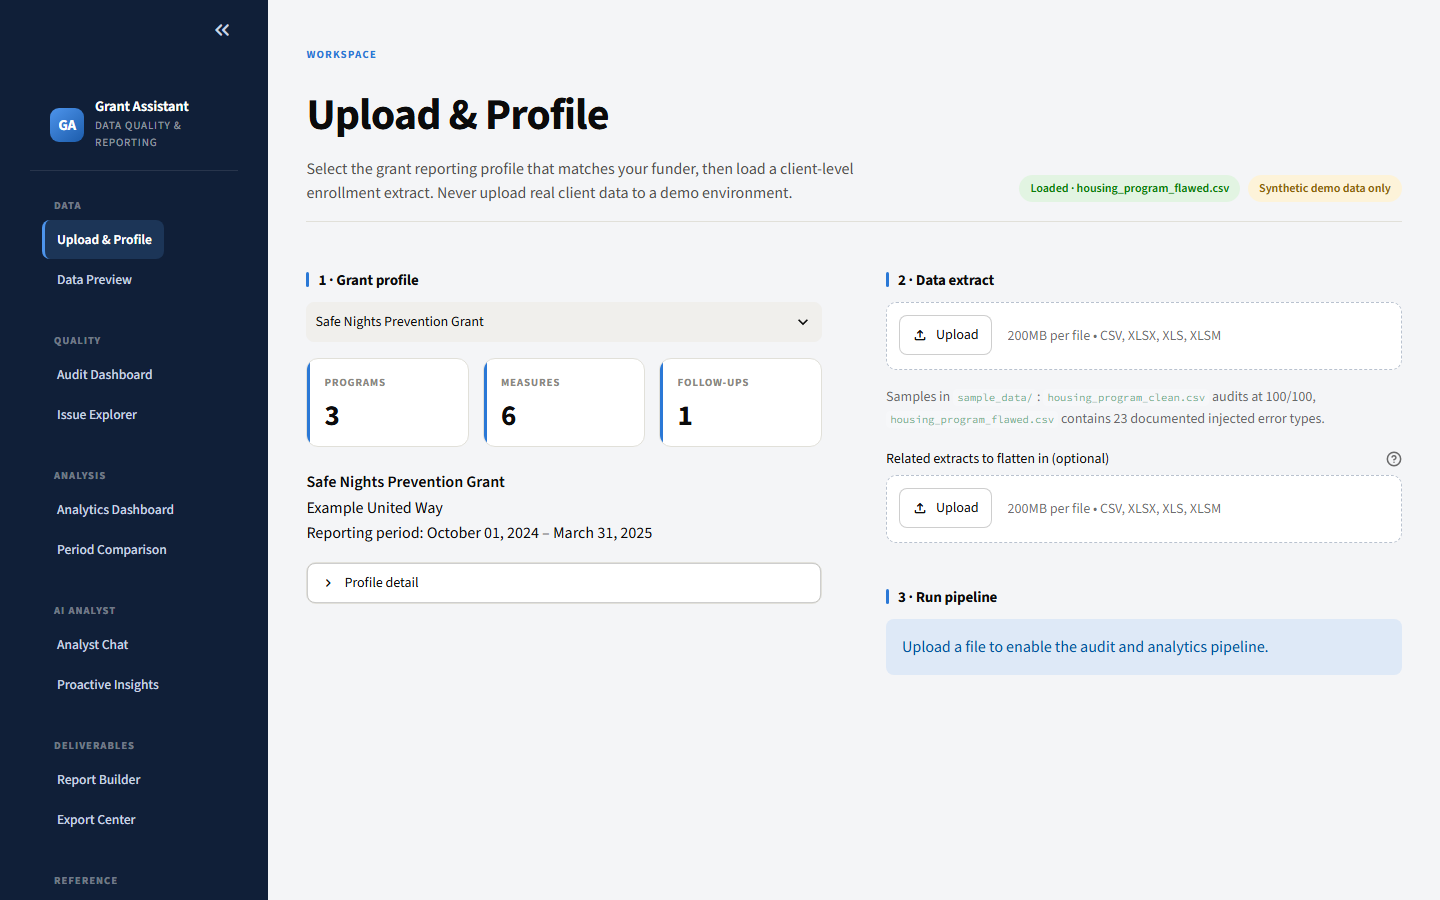
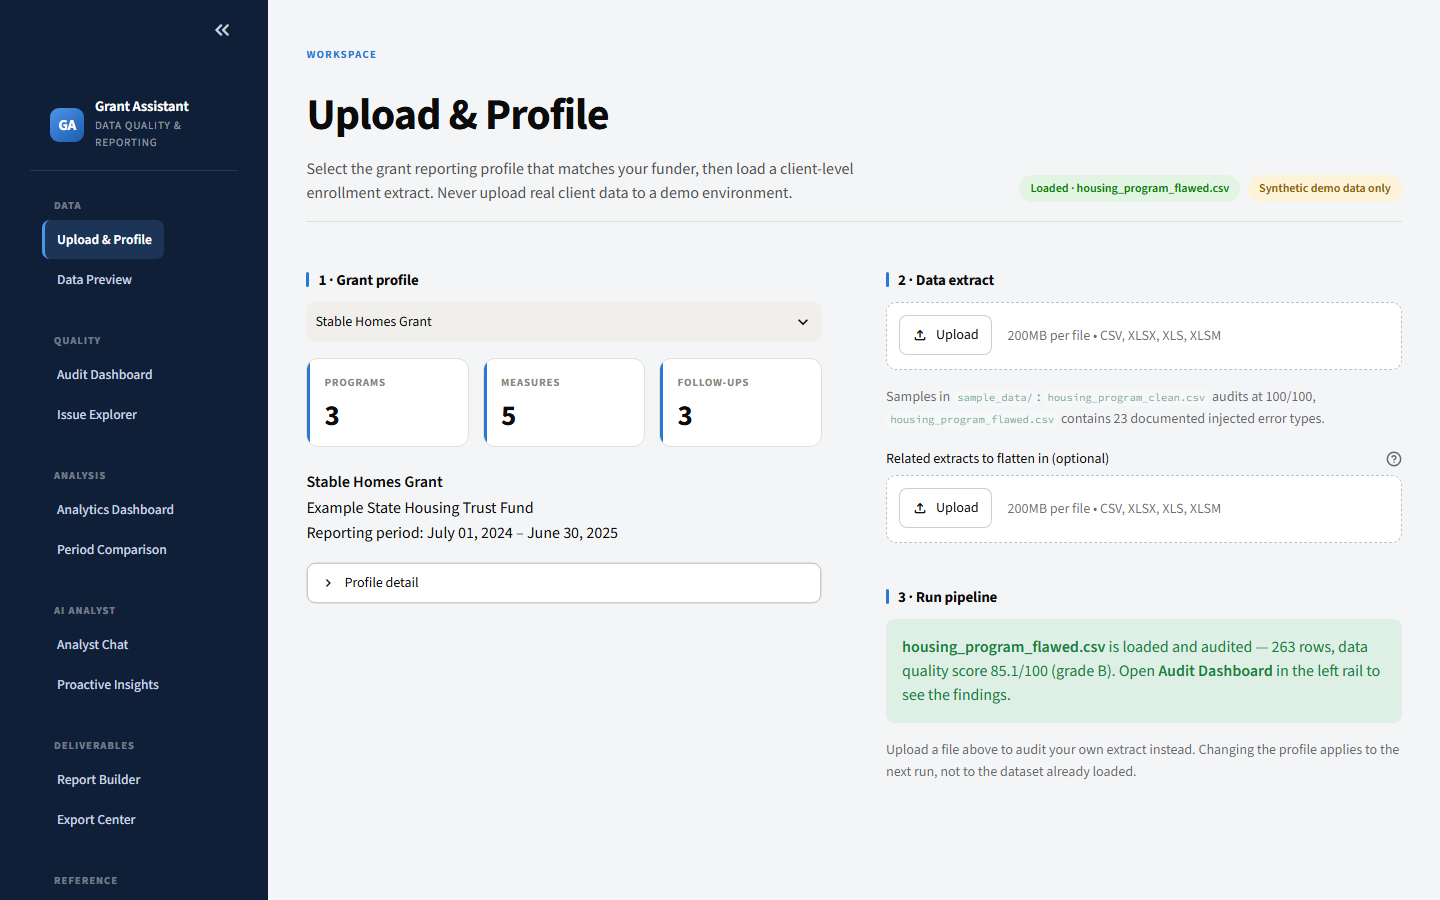
v1.11.2: the demo landing page no longer contradicts itself
Two defects on the first screen a demo visitor sees, both from the same cause --
the page read widget state instead of session state.

The profile picker defaulted to whichever grant sorts first alphabetically, so
arriving with ?profile=housing_stability showed the picker naming one grant and
the sidebar naming another, with nothing indicating which produced the numbers.
The autoloader now seeds the selector with the profile it loaded.

Step 3 keyed off the file-uploader widget alone, so a visitor whose dataset was
already preloaded and audited was told to upload one -- directly beneath a
"Loaded" pill and a computed data quality score. It now reports the loaded file,
its rows and score, and points at the Audit Dashboard.

All three states are tested: loaded-with-matching-profile, loaded-does-not-ask-
for-upload, and empty-still-prompts. Screenshots regenerated.

diff --git a/tests/test_ui_app.py b/tests/test_ui_app.py
@@ -305,3 +305,46 @@ def test_pii_warning_reaches_the_audit_dashboard(tmp_path, clean_df):
     # The page renders from session state, so seed it the way the app does.
     assert audit.pii_warnings, "expected the scan to flag the added column"
     assert any("Client Name" in w for w in audit.pii_warnings)
+
+
+# -- The demo landing page ----------------------------------------------------
+# This is the first screen a visitor to the hosted demo sees. Two things on it
+# used to contradict each other and the sidebar, which is worse than a bug in a
+# page nobody reaches.
+
+
+def test_demo_profile_selector_matches_the_loaded_profile(loaded_app):
+    """The picker must name the grant that was actually loaded.
+
+    It defaulted to the first profile alphabetically, so a visitor arriving with
+    ?profile=housing_stability saw the picker naming a different grant than the
+    sidebar, with no indication which one produced the numbers on screen.
+    """
+    _goto(loaded_app, "Upload & Profile")
+    assert not loaded_app.exception
+
+    loaded = loaded_app.session_state["pipeline"]["profile"]
+    assert loaded.profile_id == "housing_stability"
+    box = next((s for s in loaded_app.selectbox if s.label == "Grant profile"), None)
+    assert box is not None
+    # The selector's value is the profile id; format_func only changes the label.
+    assert box.value == loaded.profile_id
+
+
+def test_demo_landing_does_not_ask_for_an_upload_it_already_has(loaded_app):
+    """With data loaded, step 3 must report state, not demand work already done."""
+    _goto(loaded_app, "Upload & Profile")
+    assert not loaded_app.exception
+
+    text = _text_of(loaded_app)
+    assert "Upload a file to enable" not in text
+    assert "is loaded and audited" in text
+    assert "Audit Dashboard" in text
+
+
+def test_upload_prompt_still_appears_with_no_data():
+    """The prompt is right when there is genuinely nothing loaded."""
+    app = _app().run()
+    _goto(app, "Upload & Profile")
+    assert not app.exception
+    assert "Upload a file to enable" in _text_of(app)

diff --git a/src/grant_assistant/ui/data_pages.py b/src/grant_assistant/ui/data_pages.py
@@ -116,7 +116,22 @@ def page_upload() -> None:
         )
 
         theme.panel_title("3 · Run pipeline")
-        if uploaded is None:
+        if uploaded is None and _loaded():
+            # A demo visitor arrives with a dataset already audited. Telling them to
+            # upload one contradicts the "Loaded" pill above and sends them looking
+            # for work that is already done.
+            p = st.session_state["pipeline"]
+            audit = p["audit"]
+            st.success(
+                f"**{p['filename']}** is loaded and audited — {len(p['prepared'].df)} rows, "
+                f"data quality score {audit.overall_score:.1f}/100 (grade {audit.grade}). "
+                "Open **Audit Dashboard** in the left rail to see the findings."
+            )
+            st.caption(
+                "Upload a file above to audit your own extract instead. Changing the profile "
+                "applies to the next run, not to the dataset already loaded."
+            )
+        elif uploaded is None:
             st.info("Upload a file to enable the audit and analytics pipeline.")
         elif st.button("Run audit + analytics", type="primary", use_container_width=True):
             try:

diff --git a/src/grant_assistant/ui/app.py b/src/grant_assistant/ui/app.py
@@ -86,6 +86,11 @@ def _demo_autoload() -> None:
         "analytics": compute_analytics(prepared, profile),
         "filename": demo_path.name,
     }
+    # Point the Upload page's profile selector at what was actually loaded. Without
+    # this it falls back to the first profile alphabetically, so a demo visitor sees
+    # the picker naming one grant while the sidebar names another. Set before the
+    # widget is created, which this is: autoload runs ahead of routing.
+    st.session_state.setdefault("profile_choice", profile_id)
 
 
 def _select_page(group: str) -> None:

diff --git a/src/grant_assistant/__init__.py b/src/grant_assistant/__init__.py
@@ -5,4 +5,4 @@ and generates dashboards and professional reports with a grounded
 AI data analyst agent.
 """
 
-__version__ = "1.11.1"
+__version__ = "1.11.2"

diff --git a/CHANGELOG.md b/CHANGELOG.md
@@ -1,5 +1,20 @@
 # Changelog
 
+## 1.11.2 — 2026-08-11
+
+### Fixed
+
+- **The demo landing page contradicted itself.** Arriving with `?profile=housing_stability`,
+  the profile picker still named whichever grant sorts first alphabetically, so the picker and
+  the sidebar disagreed about which profile produced the numbers on screen. The demo autoloader
+  now seeds the selector with the profile it actually loaded.
+- **It also asked for an upload it already had.** Step 3 keyed off the file-uploader widget
+  alone, so a visitor whose dataset was preloaded and audited was told to "upload a file to
+  enable the audit and analytics pipeline" directly beneath a "Loaded" pill. It now reports the
+  loaded file, its row count and score, and points at the Audit Dashboard — and still shows the
+  upload prompt when nothing is loaded. This is the first screen a demo visitor sees, so all
+  three states are now covered by tests.
+
 ## 1.11.1 — 2026-08-11
 
 ### Added
